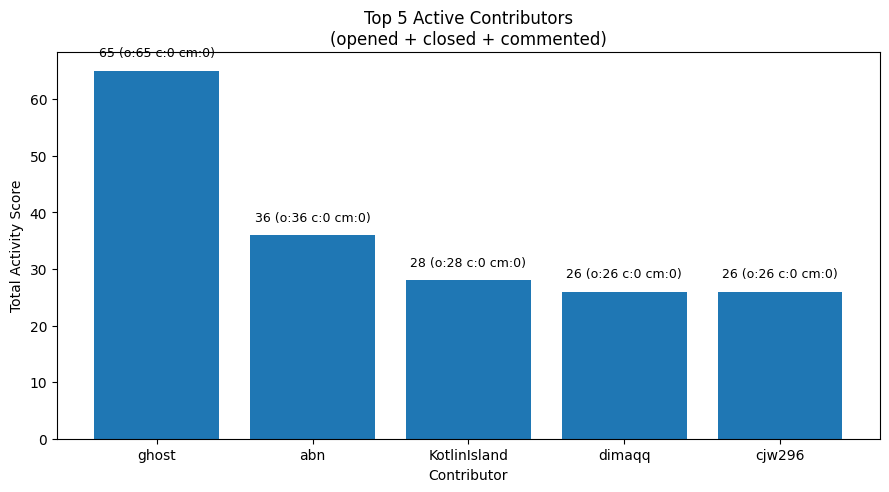
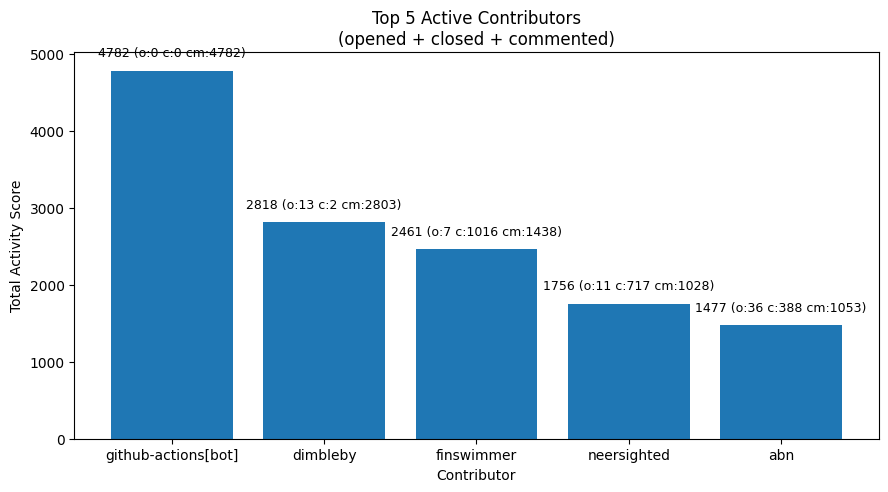
Fix feature 3 event actor/type detection

diff --git a/top_user_activity.py b/top_user_activity.py
@@ -205,9 +205,12 @@ class TopUserActivityAnalyser:
 
     @staticmethod
     def _event_type(ev: Event) -> str:
-        et = getattr(ev, "event_type", None) or getattr(ev, "type", None)
+        # event_type may come as 'closed'/'commented' or via 'event'
+        et = (getattr(ev, "event_type", None)
+              or getattr(ev, "type", None)
+              or getattr(ev, "event", None))
         if not et and isinstance(ev, dict):
-            et = ev.get("event_type") or ev.get("type")
+            et = ev.get("event_type") or ev.get("type") or ev.get("event")
         return (et or "").lower()
 
     @staticmethod
@@ -216,6 +219,9 @@ class TopUserActivityAnalyser:
         actor = getattr(ev, "actor_login", None)
         if actor:
             return actor
+        author = getattr(ev, "author", None)
+        if author:
+            return author
         # nested actor object
         act = getattr(ev, "actor", None) or {}
         if hasattr(act, "login"):
